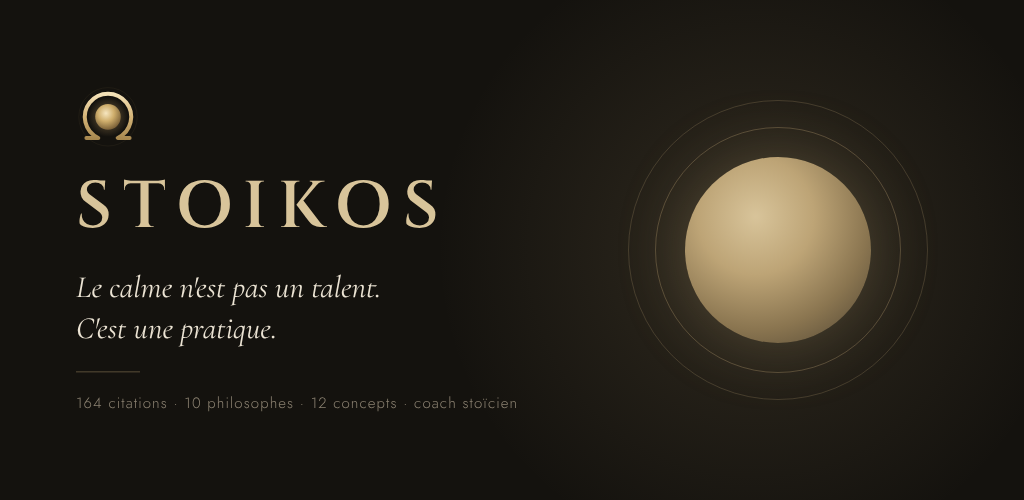
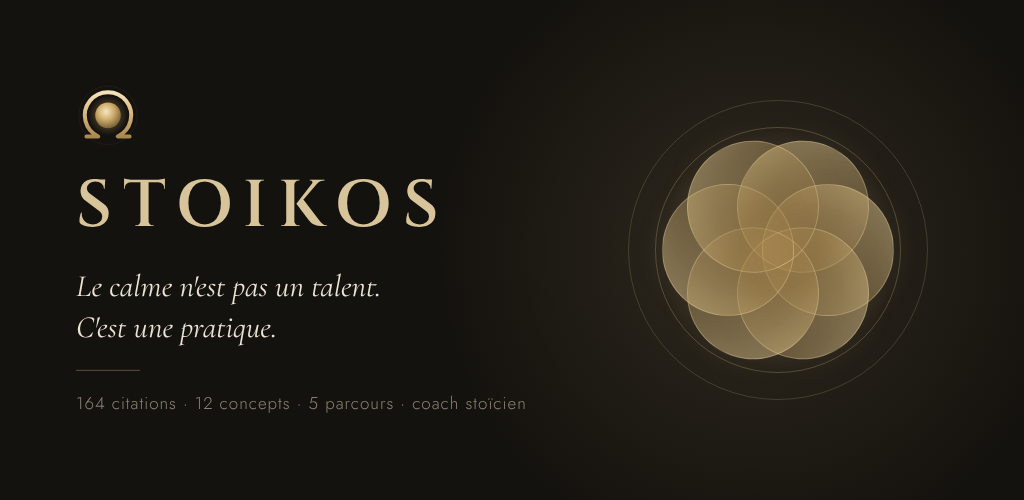
Play öne çıkan görseli: nefes orbu yerine nefes çiçeği
Sağdaki eski altın küre, uygulamanın bugünkü imza görseli olan altı
yapraklı nefes çiçeğiyle değişti. Alt satır "164 söz · 12 kavram ·
5 program · Stoacı koç" oldu (programlar Plus'ın ana parçası) ve 15 → 17
px büyüdü. Altı dilde 1024×500 yeniden üretildi.

Claude-Session: https://claude.ai/code/session_01HjT8wZmLW9eAuP1V4jzyXX

diff --git a/scripts/feature-graphic.html b/scripts/feature-graphic.html
@@ -30,7 +30,8 @@
       rgba(194,168,120,.16) 0%, rgba(194,168,120,.07) 38%, rgba(194,168,120,0) 68%);
   }
 
-  /* Nefes orbu — uygulamanın imza görseli */
+  /* Nefes çiçeği — uygulamanın imza görseli (Ekim 2026'da orbun yerini aldı).
+     Altı saydam altın taç yaprağı; üst üste binen saydamlıklar merkezi parlatır. */
   .orb-wrap {
     position:absolute; right:96px; top:50%; transform:translateY(-50%);
     width:300px; height:300px; display:grid; place-items:center;
@@ -40,11 +41,12 @@
   }
   .ring.r1 { width:300px; height:300px; }
   .ring.r2 { width:246px; height:246px; border-color:rgba(194,168,120,.3); }
-  .orb {
-    width:186px; height:186px; border-radius:50%;
-    background:radial-gradient(circle at 38% 32%,
-      #d8c49a 0%, #bda476 34%, #8a7550 66%, #4a4030 100%);
-    box-shadow:0 0 68px rgba(194,168,120,.28);
+  .flower { position:absolute; width:300px; height:300px; }
+  .petal {
+    position:absolute; left:50%; top:50%; width:132px; height:132px; margin:-66px 0 0 -66px;
+    border-radius:50%; border:1px solid rgba(250,228,180,.28);
+    background:linear-gradient(150deg, rgba(232,206,150,.55) 0%, rgba(196,160,96,.32) 55%, rgba(150,118,66,.22) 100%);
+    box-shadow:0 0 30px rgba(194,168,120,.10);
   }
 
   .text {
@@ -65,7 +67,7 @@
   }
   .rule { width:64px; height:1px; background:rgba(194,168,120,.4); margin-bottom:20px; }
   .features {
-    font-family:'Jost',sans-serif; font-weight:300; font-size:15px; letter-spacing:1.1px;
+    font-family:'Jost',sans-serif; font-weight:300; font-size:17px; letter-spacing:1px;
     color:var(--dim); line-height:1.5;
   }
 </style>
@@ -76,7 +78,14 @@
     <div class="orb-wrap">
       <div class="ring r1"></div>
       <div class="ring r2"></div>
-      <div class="orb"></div>
+      <div class="flower">
+        <div class="petal" style="transform:rotate(30deg) translateY(-50px)"></div>
+        <div class="petal" style="transform:rotate(90deg) translateY(-50px)"></div>
+        <div class="petal" style="transform:rotate(150deg) translateY(-50px)"></div>
+        <div class="petal" style="transform:rotate(210deg) translateY(-50px)"></div>
+        <div class="petal" style="transform:rotate(270deg) translateY(-50px)"></div>
+        <div class="petal" style="transform:rotate(330deg) translateY(-50px)"></div>
+      </div>
     </div>
     <div class="text">
       <div class="omega"><svg width="64" height="64" viewBox="192 162 640 640" aria-hidden="true">

diff --git a/scripts/shoot-feature.js b/scripts/shoot-feature.js
@@ -10,17 +10,17 @@ const OUT = process.argv[2] || path.resolve(__dirname, '..', 'store-assets');
 // Mağaza metinleriyle aynı cümleler — vitrin ile açıklama birbirini tekrarlasın.
 const COPY = {
   tr: { tagline: 'Sakinlik bir yetenek değil,\nbir pratiktir.',
-        features: '164 söz · 10 filozof · 12 kavram · Stoacı koç' },
+        features: '164 söz · 12 kavram · 5 program · Stoacı koç' },
   en: { tagline: 'Calm is not a talent.\nIt is a practice.',
-        features: '164 quotes · 10 philosophers · 12 concepts · Stoic coach' },
+        features: '164 quotes · 12 concepts · 5 programs · Stoic coach' },
   de: { tagline: 'Ruhe ist kein Talent.\nSie ist eine Übung.',
-        features: '164 Zitate · 10 Philosophen · 12 Konzepte · Stoischer Coach' },
+        features: '164 Zitate · 12 Konzepte · 5 Programme · Stoischer Coach' },
   ru: { tagline: 'Спокойствие — не талант.\nЭто практика.',
-        features: '164 цитаты · 10 философов · 12 понятий · стоический коуч' },
+        features: '164 цитаты · 12 понятий · 5 программ · стоический коуч' },
   fr: { tagline: 'Le calme n\'est pas un talent.\nC\'est une pratique.',
-        features: '164 citations · 10 philosophes · 12 concepts · coach stoïcien' },
+        features: '164 citations · 12 concepts · 5 parcours · coach stoïcien' },
   es: { tagline: 'La calma no es un talento.\nEs una práctica.',
-        features: '164 citas · 10 filósofos · 12 conceptos · coach estoico' },
+        features: '164 citas · 12 conceptos · 5 programas · coach estoico' },
 };
 
 (async () => {
